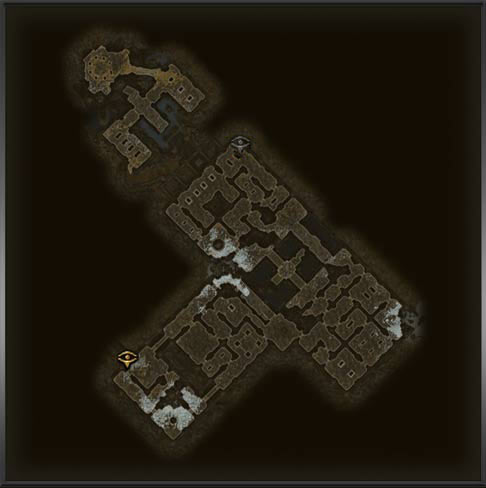
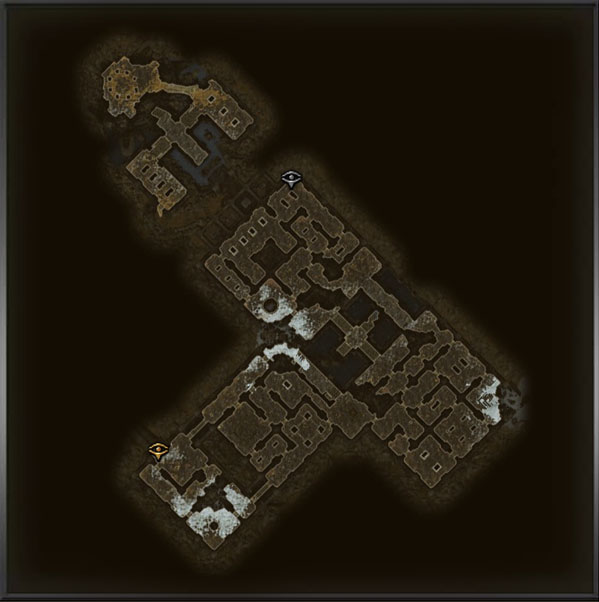
update region and qol

diff --git a/js/ui.map.base.js b/js/ui.map.base.js
@@ -29,40 +29,52 @@
   window.DECOR_ICONS_CAIRN = [
     { id:'gardian-dreeg', w: 95, h: 50, img: 'img/qol/gardian-dreeg.png', xp: 68.1, yp: 84.30,  anchor: 'center' },
     { id:'gardian-solael', w: 70, h: 70, img: 'img/qol/gardian-solael.png', xp: 46.98, yp: 84.08,  anchor: 'center' },
-    { id:'gardian-bysmael', w: 50, h: 50, img: 'img/qol/guardian-bysmiel.png', xp: 17.00, yp: 33.20,  anchor: 'center', isDungeon: true },
-    { id:'rashalga', w: 90, h: 70, img: 'img/qol/rashalga-queen.png', xp: 15.47, yp: 32.15,  anchor: 'center', isDungeon: true },
-    { id:'attendant', w: 60, h: 60, img: 'img/qol/attendant.png?1.0', xp: 87.77, yp: 63.4,  anchor: 'center', isDungeon: true },
-    { id:'sentinel', w: 95, h: 115, img: 'img/qol/sentinel.png?1.0', xp: 87, yp: 63.69,  anchor: 'center', isDungeon: true },
+    { id:'gardian-bysmael', w: 50, h: 50, img: 'img/qol/guardian-bysmiel.png', xp: 17.00, yp: 33.20, isDungeon: true },
+    { id:'rashalga', w: 90, h: 70, img: 'img/qol/rashalga-queen.png', xp: 15.47, yp: 32.15, isDungeon: true },
+    { id:'attendant', w: 60, h: 60, img: 'img/qol/attendant.png?1.0', xp: 87.77, yp: 63.4, isDungeon: true },
+    { id:'sentinel', w: 95, h: 115, img: 'img/qol/sentinel.png?1.0', xp: 87, yp: 63.69, isDungeon: true },
     { id:'hidden-donjon1', w: 70, h: 70, img: 'img/qol/hidden-donjon1.png', xp: 78.47, yp: 62.03,  anchor: 'center' },
     { id:'coliseum', w: 70, h: 70, img: 'img/qol/coliseum.png', xp: 45.23, yp: 77.16,  anchor: 'center' },
-    { id:'warden-krieg', w: 110, h: 140, img: 'img/qol/warden-krieg.png', xp: 58.60, yp: 45.82,  anchor: 'center', isDungeon: true },
-    { id:'Bastion-order', w: 68, h: 75, img: 'img/qol/bastion-order.png', xp: 31.95, yp: 58.64,  anchor: 'center' },
-    { id:'kymon-sanctuary', w: 70, h: 75, img: 'img/qol/kymon-sanctuary.png', xp: 34.34, yp: 57.40,  anchor: 'center' },
+    { id:'warden-krieg', w: 110, h: 140, img: 'img/qol/warden-krieg.png', xp: 58.60, yp: 45.82, isDungeon: true },
+    { id:'Bastion-order', w: 55, h: 62, img: 'img/qol/bastion-order.png', xp: 31.85, yp: 58.64,  anchor: 'center' },
+    { id:'kymon-sanctuary', w: 55, h: 62, img: 'img/qol/kymon-sanctuary.png', xp: 34.34, yp: 57.40,  anchor: 'center' },
     { id:'stonerend-quarry', w: 64, h: 70, img: 'img/qol/stonerend-quarry.png', xp: 32.8, yp: 49.55,  anchor: 'center' },
     { id:'fort-ikon', w: 75, h: 83, img: 'img/qol/fort-ikon.png?1.0', xp: 15.10, yp: 21.52,  anchor: 'center' },
     { id:'devil-crossing', w: 65, h: 83, img: 'img/qol/devil-crossing.png', xp: 63.70, yp: 88.45,  anchor: 'center' },
-    { id:'bloodfeast', w: 140, h: 100, img: 'img/qol/bloodfeast.png?1.0', xp: 45.11, yp: 61.1,  anchor: 'center', isDungeon: true },
+    { id:'bloodfeast', w: 140, h: 100, img: 'img/qol/bloodfeast.png?1.0', xp: 45.11, yp: 61.1, isDungeon: true },
     { id:'homestead', w: 100, h: 110, img: 'img/qol/homestead.png', xp: 36.40, yp: 62.60,  anchor: 'center' },
-    { id:'banegargoth', w: 115, h: 138, img: 'img/qol/bane-gargoth.png', xp: 29.00, yp: 29.90,  anchor: 'center', isDungeon: true },
-    { id:'lucius', w: 100, h: 110, img: 'img/qol/lucius.png', xp: 15.31, yp: 15.04,  anchor: 'center', isDungeon: true },
-    { id:'loghorrean', w: 140, h: 110, img: 'img/qol/loghorrean.png', xp: 14.11, yp: 4.51,  anchor: 'center', isDungeon: true },
-    { id:'thalonis.png', w: 90, h: 130, img: 'img/qol/thalonis.png', xp: 10.70, yp: 7.25,  anchor: 'center', isDungeon: true },
-    { id:'sharzul.png', w: 130, h: 160, img: 'img/qol/sharzul.png', xp: 52.05, yp: 0.7,  anchor: 'center', isDungeon: true },
-    { id:'anasteria', w: 150, h: 90, img: 'img/qol/anasteria.png', xp: 6.5, yp: 18.43,  anchor: 'center', isDungeon: true },
-    { id:'igor-eternal', w: 100, h: 130, img: 'img/qol/igor-eternal.png', xp: 44.60, yp: 97.91,  anchor: 'center', isDungeon: true },
+    { id:'banegargoth', w: 115, h: 138, img: 'img/qol/bane-gargoth.png', xp: 29.00, yp: 29.90, isDungeon: true },
+    { id:'lucius', w: 100, h: 110, img: 'img/qol/lucius.png', xp: 15.31, yp: 15.04, isDungeon: true },
+    { id:'loghorrean', w: 140, h: 110, img: 'img/qol/loghorrean.png', xp: 14.11, yp: 4.51, isDungeon: true },
+    { id:'thalonis.png', w: 90, h: 130, img: 'img/qol/thalonis.png', xp: 10.70, yp: 7.25, isDungeon: true },
+    { id:'sharzul.png', w: 130, h: 160, img: 'img/qol/sharzul.png', xp: 52.05, yp: 0.7, isDungeon: true },
+    { id:'anasteria', w: 150, h: 90, img: 'img/qol/anasteria.png', xp: 6.5, yp: 18.43, isDungeon: true },
+    { id:'igor-eternal', w: 100, h: 130, img: 'img/qol/igor-eternal.png', xp: 44.60, yp: 97.91, isDungeon: true },
     { id:'kaliska', w: 120, h: 90, img: 'img/qol/kaliska.png', xp: 79.35, yp: 64.20,  anchor: 'center' },
-    { id:'alkamos', w: 100, h: 140, img: 'img/qol/alkamos.png', xp: 54.19, yp: 96.72,  anchor: 'center', isDungeon: true },
-    { id:'ravna', w: 140, h: 130, img: 'img/qol/ravna.png', xp: 21.8, yp: 64.15,  anchor: 'center', isDungeon: true },
-    { id:'kilrian', w: 110, h: 145, img: 'img/qol/kilrian.png', xp: 50.49, yp: 67.9,  anchor: 'center', isDungeon: true },
+    { id:'alkamos', w: 100, h: 140, img: 'img/qol/alkamos.png', xp: 54.19, yp: 96.72, isDungeon: true },
+    { id:'ravna', w: 140, h: 130, img: 'img/qol/ravna.png', xp: 21.8, yp: 64.15, isDungeon: true },
+    { id:'kilrian', w: 110, h: 145, img: 'img/qol/kilrian.png', xp: 50.49, yp: 67.9, isDungeon: true },
     { id:'necropole', w: 130, h: 98, img: 'img/qol/necropole.png?1.1', xp: 22.36, yp: 16.1,  anchor: 'center' },
-    { id:'plagius', w: 110, h: 125, img: 'img/qol/plagius.png', xp: 35.63, yp: 10.81,  anchor: 'center', isDungeon: true },
+    { id:'plagius', w: 110, h: 125, img: 'img/qol/plagius.png', xp: 35.63, yp: 10.81, isDungeon: true },
     { id:'necropole-door', w: 80, h: 80, img: 'img/qol/necropole-door.png', xp: 23.22, yp: 4.54,  anchor: 'center' },
-    { id:'darius', w: 100, h: 150, img: 'img/qol/darius.png', xp: 58.98, yp: 69.94,  anchor: 'center', isDungeon: true },
-    { id:'gargabol', w: 130, h: 190, img: 'img/qol/gargabol.png', xp: 98.27, yp: 58.4,  anchor: 'center', isDungeon: true },
-    { id:'manticore', w: 180, h: 120, img: 'img/qol/manticore.png', xp: 92.42, yp: 55,  anchor: 'center', isDungeon: true },
-    { id:'ekketzul', w: 190, h: 245, img: 'img/qol/ekketzul.png', xp: 73.66, yp: 19.33,  anchor: 'center', isDungeon: true },
-    { id:'naxen', w: 130, h: 90, img: 'img/qol/naxen.png', xp: 99.84, yp: 26.93,  anchor: 'center', isDungeon: true },
-    { id:'namadea', w: 140, h: 130, img: 'img/qol/namadea.png', xp: 79.10, yp: 28.1,  anchor: 'center', isDungeon: true },
+    { id:'darius', w: 100, h: 150, img: 'img/qol/darius.png', xp: 58.98, yp: 69.94, isDungeon: true },
+    { id:'gargabol', w: 130, h: 190, img: 'img/qol/gargabol.png', xp: 98.27, yp: 58.4, isDungeon: true },
+    { id:'manticore', w: 180, h: 120, img: 'img/qol/manticore.png', xp: 92.42, yp: 55, isDungeon: true },
+    { id:'ekketzul', w: 190, h: 245, img: 'img/qol/ekketzul.png', xp: 73.66, yp: 19.33, isDungeon: true },
+    { id:'naxen', w: 130, h: 90, img: 'img/qol/naxen.png', xp: 99.84, yp: 26.93, isDungeon: true },
+    { id:'namadea', w: 140, h: 130, img: 'img/qol/namadea.png', xp: 79.10, yp: 28.1, isDungeon: true },
+    { id:'voldrak', w: 120, h: 120, img: 'img/qol/voldrak.png', xp: 30.6, yp: 83.60, isDungeon: true },
+    { id:'ragnadar', w: 130, h: 130, img: 'img/qol/ragnadar.png', xp: 22.45, yp: 58.42, isDungeon: true },
+    { id:'balokanatu', w: 170, h: 140, img: 'img/qol/balokanatu.png', xp: 35.52, yp: 4.6, isDungeon: true },
+    { id:'lagothak', w: 100, h: 190, img: 'img/qol/lagothak.png', xp: 42.55, yp: -1.00, isDungeon: true },
+    { id:'harvoul', w: 70, h: 70, img: 'img/qol/harvoul.png', xp: 3.65, yp: 37.06, isDungeon: true },
+    { id:'sharanatu', w: 80, h: 160, img: 'img/qol/lagothak.png', xp: 4.14, yp: 36.63, isDungeon: true },
+
+    { id:'noveria', w: 80, h: 90, img: 'img/qol/noveria.png', xp: 30.2, yp: 60.42, isDungeon: true },
+    { id:'kymon-father', w: 90, h: 85, img: 'img/qol/kymon-father.png', xp: 39.26, yp: 56.98, isDungeon: true },
+
+    { id:'karroz', w: 115, h: 115, img: 'img/qol/karroz.png', xp: 27.24, yp: 41.04, isDungeon: true },
+
 
   ];
 
@@ -402,12 +414,7 @@
       img.style.height = (d.h || 24) + 'px';
       img.style.pointerEvents = 'none';
       img.style.zIndex = '2';
-
-      switch (d.anchor) {
-        case 'bottom': img.style.transform = 'translate(-50%, -100%)'; break;
-        case 'top':    img.style.transform = 'translate(-50%, 0%)'; break;
-        default:       img.style.transform = 'translate(-50%, -50%)';
-      }
+      img.style.transform = 'translate(-50%, -50%)';
 
       inner.appendChild(img);
     });

diff --git a/js/ui.overlay.js b/js/ui.overlay.js
@@ -20,14 +20,14 @@ window.DUNGEON_OVERLAYS = [
 { id: "tyrant_hold", map: "cairn", img: "tyrant-hold.jpg?1.1", left: 43.4316, top: 59.5735, width: 6.6584, height: 6.5157 },
 { id: "mountain_deep", map: "cairn", img: "mountain-deep.jpg", left: 20.9091, top: 72.1, width: 6.8081, height: 6.6695 },
 { id: "royal_hive", map: "cairn", img: "royal-hive.jpg?1.1", left: 13.5229, top: 62.4664, width: 9.4592, height: 9.3523 },
-{ id: "bastion_order", map: "cairn", img: "bastion-order.jpg", left: 27.69, top: 57.946, width: 3.1863, height: 3.1196 },
-{ id: "kymons_sanctuary", map: "cairn", img: "kymons-sanctuary.jpg?1.1", left: 36.7244, top: 53.7821, width: 3.5, height: 3.4 },
+{ id: "bastion_order", map: "cairn", img: "bastion-order.jpg", left: 27.39, top: 57.546, width: 3.4863, height: 3.4196 },
+{ id: "kymons_sanctuary", map: "cairn", img: "kymons-sanctuary.jpg?1.1", left: 36.2244, top: 53.7821, width: 3.8, height: 3.7 },
 { id: "darkvale_gate", map: "cairn", img: "darkvale-gate.jpg?1.11", left: 23.2176, top: 32.6538, width: 8.0688, height: 9.1004 },
 { id: "fort_haron", map: "cairn", img: "fort-haron.jpg?1.1", left: 29.4495, top: 41.9, width: 4.1302, height: 4.3634 },
 { id: "ashen_waste", map: "cairn", img: "ashen-waste.jpg", left: 16.4232, top: 53.7, width: 8.4634, height: 8.4283 },
 { id: "the_bonepit", map: "cairn", img: "the-bonepit.jpg", left: 36.1246, top: 49.4723, width: 2.5675, height: 2.5256 },
 { id: "tomb_of_the_damned", map: "cairn", img: "tomb-of-the-damned.jpg?1.0", left: 0.1229, top: 19.2295, width: 7.9746, height: 7.8875 },
-{ id: "tomb_of_korvaak", map: "cairn", img: "tom-of-korvaak.jpg?1.0", left: 2.1229, top: 32.7744, width: 5.4447, height: 5.3338 },
+{ id: "tomb_of_korvaak", map: "cairn", img: "tom-of-korvaak.jpg?1.1", left: 2.1229, top: 32.7744, width: 6.6447, height: 6.6338 },
 { id: "obsidian_throne", map: "cairn", img: "obsidian-throne.jpg?1.0", left: 20.7851, top: 23.7041, width: 9.092, height: 8.8537 },
 { id: "port_valbury_fondation", map: "cairn", img: "port-valbury-fondation.jpg?1.0", left: 34.2021, top: 31.2484, width: 4.9604, height: 4.8642 },
 { id: "edge_of_reality", map: "cairn", img: "edge-of-reality.jpg?1.0", left: 26.9649, top: 13.5681, width: 7.2252, height: 9.9713 },

diff --git a/index.html b/index.html
@@ -690,12 +690,12 @@
   <script src="js/ui.lang.js?v=3.70"></script>
   <script src="js/core.js?v=3.11"></script>
   <script src="js/ui.rift.js?v=3.98"></script>
-  <script src="js/ui.region.js?v=4.20"></script>
+  <script src="js/ui.region.js?v=4.21"></script>
 
   <script src="js/ui.shrine.js?v=1.09"></script>
 
   <script src="js/ui.navmarkers.js?v=1.23"></script>
-  <script src="js/ui.map.base.js?v=1.45"></script>
+  <script src="js/ui.map.base.js?v=1.46"></script>
   <script src="js/ui.map.minimap.js?v=1.13"></script>
 
   <script src="js/ui.markers.js?v=26"></script>
@@ -710,7 +710,7 @@
 
   <script src="libs/pako.min.js"></script>
   <script src="js/ui.tools.js?v=2.99"></script>
-  <script src="js/ui.overlay.js?v=3.31"></script>
+  <script src="js/ui.overlay.js?v=3.32"></script>
   <script src="js/ui.dungeon.links.js?v=1.24"></script>
   <script src="js/ui.filter.js?v=3.03"></script>
   <script src="js/ui.search.js?v=1.22"></script>

diff --git a/js/ui.region.js b/js/ui.region.js
@@ -168,7 +168,7 @@
 { id: 'tag_uG_dermapteran_01', tag: 'tagUGDermapteran01', xp: 17.50, yp: 66.46, isDungeon: true },
 { id: 'tag_uGHomestead_cave01', tag: 'tagUGHomesteadCave01', xp: 15.34, yp: 62.88, isDungeon: true },
 { id: 'tag_uG_dermapteran_03B', tag: 'tagUGDermapteran03B', xp: 19.40, yp: 62.93, isDungeon: true },
-{ id: 'UG_crypt_necro01', tag: 'tagUGCryptNecro01', xp: 28.03, yp: 58.32, isDungeon: true },
+{ id: 'UG_crypt_necro01', tag: 'tagUGCryptNecro01', xp: 27.75, yp: 57.98, isDungeon: true },
 { id: 'UG_fort_zealot01', tag: 'tagUGFortZealot01', xp: 37, yp: 54, isDungeon: true },
 { id: 'map_deadmans_gulch', tag: 'tagMapDeadmansGulch', xp: 31.52, yp: 76.75 },
 { id: 'map_conflagration02', tag: 'tagMapConflagration02', xp: 32.38, yp: 73.42 },
